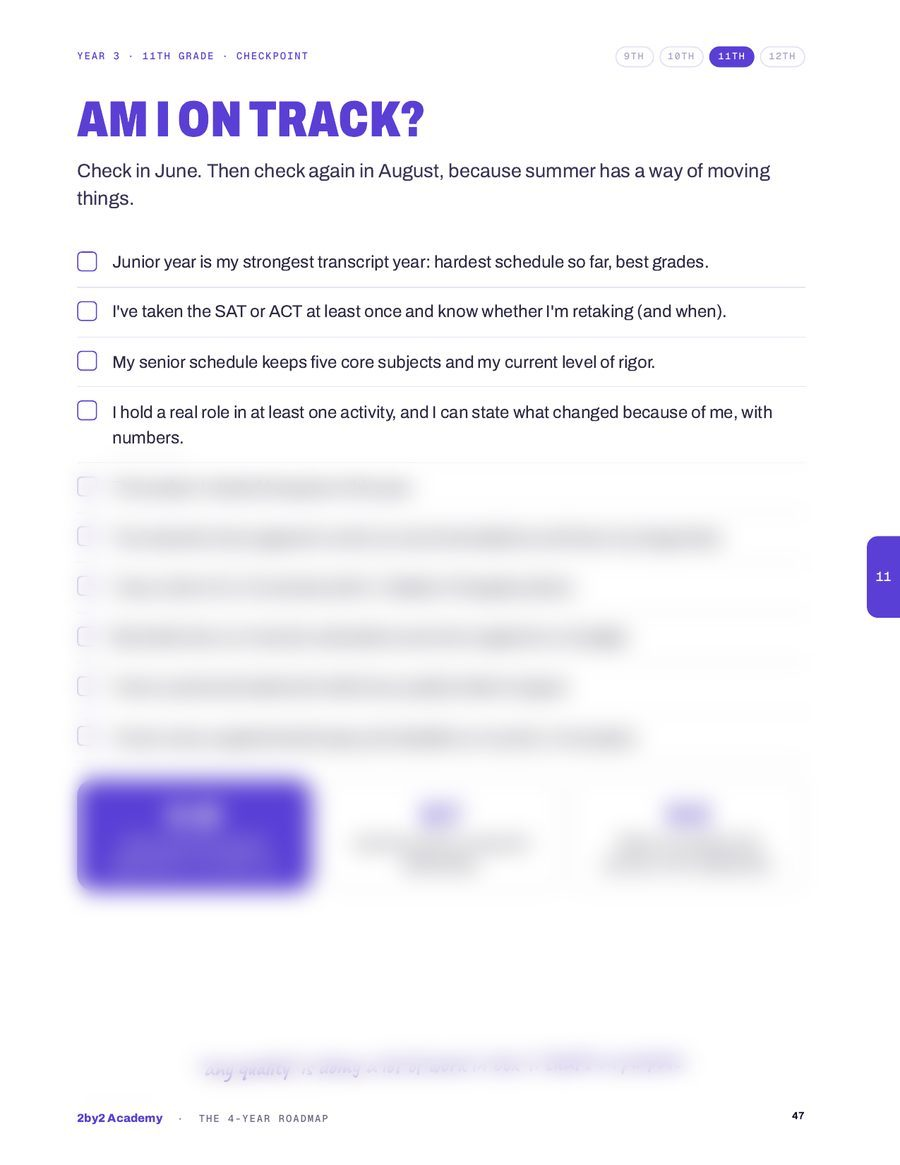
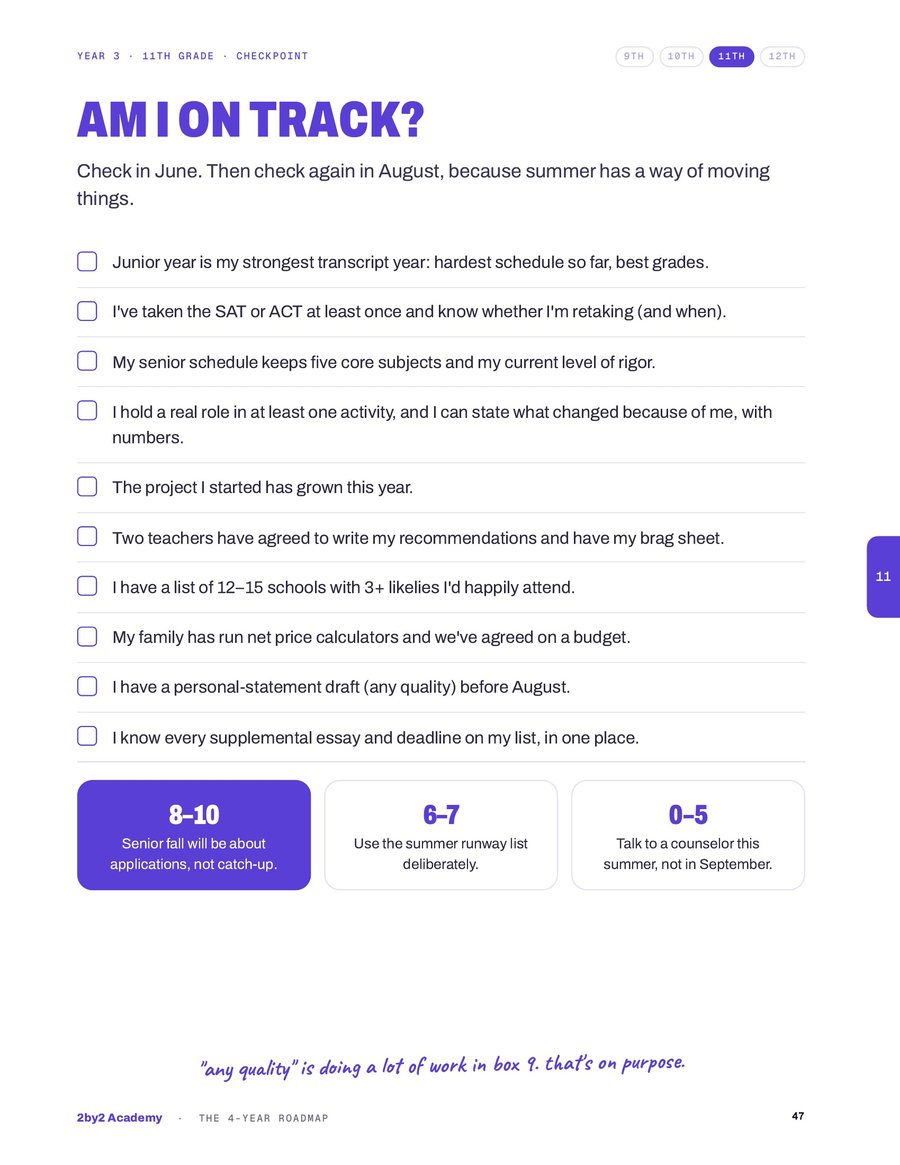
Roadmap preview: show 5 full problem-diagnosing pages (no blur, no Jackson page, no frameworks); remove old previews
Claude-Session: https://claude.ai/code/session_01Tx4XZy6AFCUnLjaCkcYsYS

diff --git a/roadmap/index.html b/roadmap/index.html
@@ -184,12 +184,11 @@ p,h1,h2,h3,figure{margin:0}
       <p class="sec-lede rv">A few real pages. The rest is in the PDF.</p>
     </div>
     <div class="pages" id="pages">
-        <figure class="pg"><button type="button" data-full="img/contents.jpg" aria-label="Enlarge: What&rsquo;s inside"><img src="img/contents.jpg?v=2" width="900" height="1165" alt="Roadmap page preview: What&rsquo;s inside" loading="lazy"><span class="lock" style="bottom:30%">Parts 2&ndash;7 in the PDF</span></button><figcaption><b>What&rsquo;s inside</b>Seven parts, 86 pages, every grade. Here&rsquo;s where it starts.</figcaption></figure>
-        <figure class="pg"><button type="button" data-full="img/month-by-month.jpg" aria-label="Enlarge: Month by month"><img src="img/month-by-month.jpg?v=2" width="900" height="1165" alt="Roadmap page preview: Month by month" loading="lazy"><span class="lock" style="bottom:34%">Every month, all 4 years</span></button><figcaption><b>Month by month</b>What to do this month, every month, 9th through 12th. No more guessing what&rsquo;s next.</figcaption></figure>
-        <figure class="pg"><button type="button" data-full="img/on-track.jpg" aria-label="Enlarge: Am I on track?"><img src="img/on-track.jpg?v=2" width="900" height="1165" alt="Roadmap page preview: Am I on track?" loading="lazy"><span class="lock" style="bottom:30%">Your score unlocks inside</span></button><figcaption><b>Am I on track?</b>A 10&#8209;point check at the end of every year. Your score tells you exactly what to do next.</figcaption></figure>
-        <figure class="pg"><button type="button" data-full="img/note.jpg" aria-label="Enlarge: A note from Jackson"><img src="img/note.jpg?v=2" width="900" height="1165" alt="Roadmap page preview: A note from Jackson" loading="lazy"></button><figcaption><b>A note from Jackson</b>Why this exists, and the things nobody told us in 9th grade.</figcaption></figure>
-        <figure class="pg"><button type="button" data-full="img/worksheet.jpg" aria-label="Enlarge: Fill-in worksheets"><img src="img/worksheet.jpg?v=2" width="900" height="1165" alt="Roadmap page preview: Fill-in worksheets" loading="lazy"><span class="lock" style="bottom:40%">5 worksheets in the PDF</span></button><figcaption><b>Fill-in worksheets</b>Course plan, activities, summers, brag sheet, college list. By 12th grade, this one becomes your Common App activities list.</figcaption></figure>
-        <figure class="pg"><button type="button" data-full="img/cheat-sheet.jpg" aria-label="Enlarge: The deadline cheat sheet"><img src="img/cheat-sheet.jpg?v=1" width="900" height="1165" alt="Roadmap page preview: The deadline cheat sheet" loading="lazy"><span class="lock">Unlocks in the full PDF</span></button><figcaption><b>The deadline cheat sheet</b>Every 2026&ndash;27 date on one page. Unlocks with the full Roadmap.</figcaption></figure>
+        <figure class="pg"><button type="button" data-full="img/not-too-late.jpg" aria-label="Enlarge: It is not too late"><img src="img/not-too-late.jpg?v=3" width="900" height="1165" alt="Roadmap page preview: It is not too late" loading="lazy"></button><figcaption><b>It is not too late</b>9th or 12th, start here. Most of your competition hasn&rsquo;t started either.</figcaption></figure>
+        <figure class="pg"><button type="button" data-full="img/what-colleges-weigh.jpg" aria-label="Enlarge: What colleges actually weigh"><img src="img/what-colleges-weigh.jpg?v=3" width="900" height="1165" alt="Roadmap page preview: What colleges actually weigh" loading="lazy"></button><figcaption><b>What colleges actually weigh</b>Straight from the colleges. Most families put their energy in the wrong place.</figcaption></figure>
+        <figure class="pg"><button type="button" data-full="img/sophomore-drift.jpg" aria-label="Enlarge: Where good students drift"><img src="img/sophomore-drift.jpg?v=3" width="900" height="1165" alt="Roadmap page preview: Where good students drift" loading="lazy"></button><figcaption><b>Where good students drift</b>Why 10th grade quietly costs students, and why it never feels like a problem until junior spring.</figcaption></figure>
+        <figure class="pg"><button type="button" data-full="img/on-track.jpg" aria-label="Enlarge: Am I on track?"><img src="img/on-track.jpg?v=3" width="900" height="1165" alt="Roadmap page preview: Am I on track?" loading="lazy"></button><figcaption><b>Am I on track?</b>Ten checks for the end of junior year. Count yours honestly.</figcaption></figure>
+        <figure class="pg"><button type="button" data-full="img/for-parents.jpg" aria-label="Enlarge: For parents"><img src="img/for-parents.jpg?v=3" width="900" height="1165" alt="Roadmap page preview: For parents" loading="lazy"></button><figcaption><b>For parents</b>What hundreds of families wish someone had told them in 9th grade.</figcaption></figure>
     </div>
     <p class="swipe" aria-hidden="true">Swipe <i>&rarr;</i></p>
   </section>
@@ -281,7 +280,7 @@ var ROADMAP_URL = 'https://buy.stripe.com/fZu9AMfhBbvU1HH5ni2ZO00'; // Stripe Pa
   var lb=document.getElementById('lb'), lbImg=document.getElementById('lbImg'), seen={};
   document.querySelectorAll('[data-full]').forEach(function(b){
     b.addEventListener('click',function(){
-      lbImg.src=b.getAttribute('data-full')+'?v=2'; lbImg.alt=b.querySelector('img').alt;
+      lbImg.src=b.getAttribute('data-full')+'?v=3'; lbImg.alt=b.querySelector('img').alt;
       lb.classList.add('open'); lb.scrollTop=0; document.body.style.overflow='hidden';
       var k=b.getAttribute('data-full'); if(!seen[k]){ seen[k]=1; track('PreviewPage',{page:k}); }
     });
